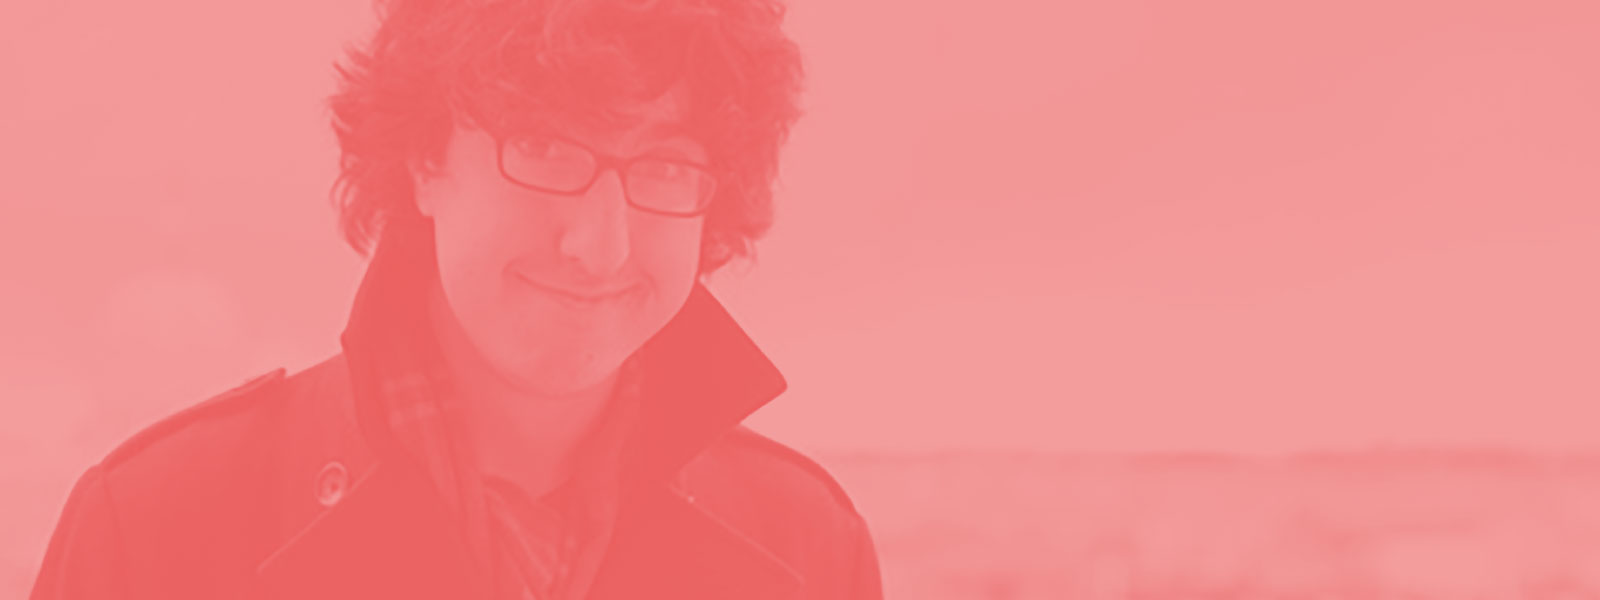
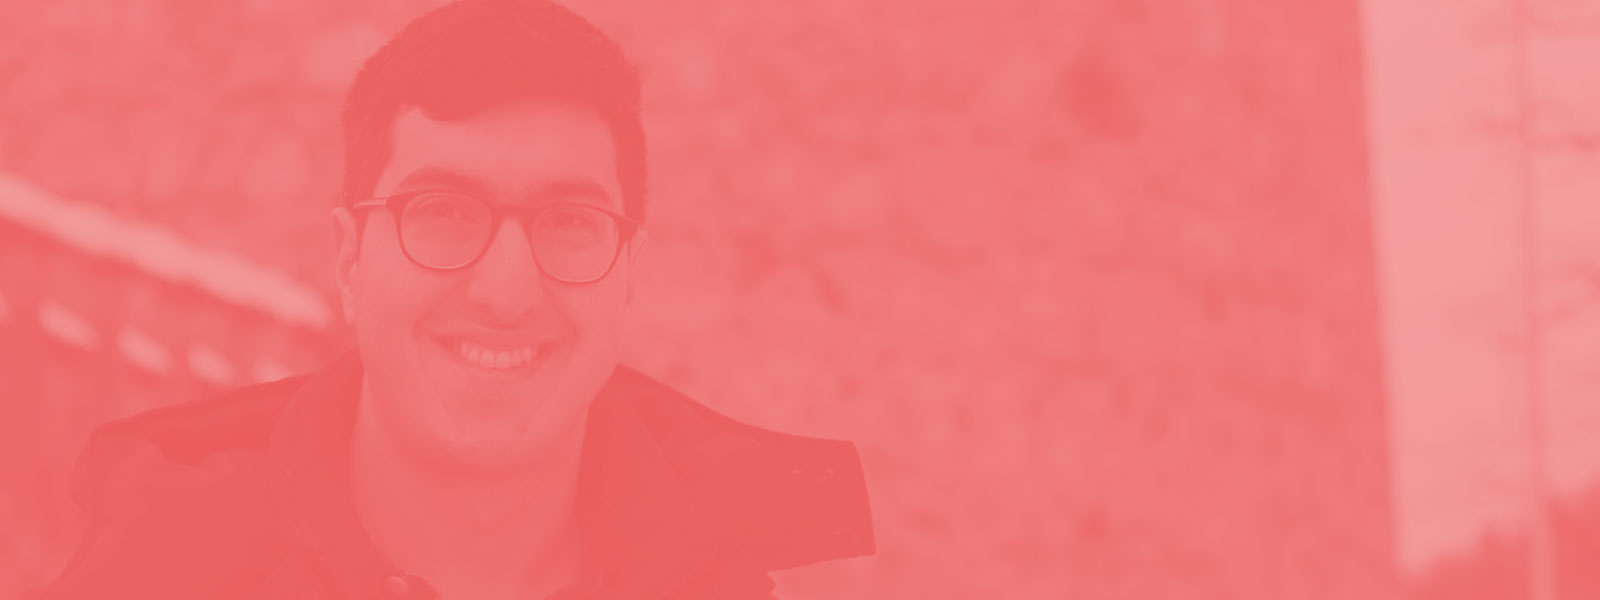
Update to blog and Soroush image

diff --git a/site/blog/default.html b/site/blog/default.html
@@ -34,9 +34,9 @@
   {% endif %}
   {% for post in site.posts %}
     {% if post.url != url %}
-    	<div class="row">
+    	<div class="row pad-top">
     		<div class="six columns offset-by-four end tablet-three">
-          <h2 class="text-xl text-medium"><a href="{{ post.url }}" class="no_ul">{{ post.title }}</a></h2>
+          <h2 class="text-l text-medium"><a href="{{ post.url }}" class="no_ul">{{ post.title }}</a></h2>
           <p class="text-s m-text-xs sc text-medium pad-top-s">{{ post.date | date: "%B %d %Y" | upcase}} BY {{ post.author | upcase }}</p>
     		</div>
     	</div>
